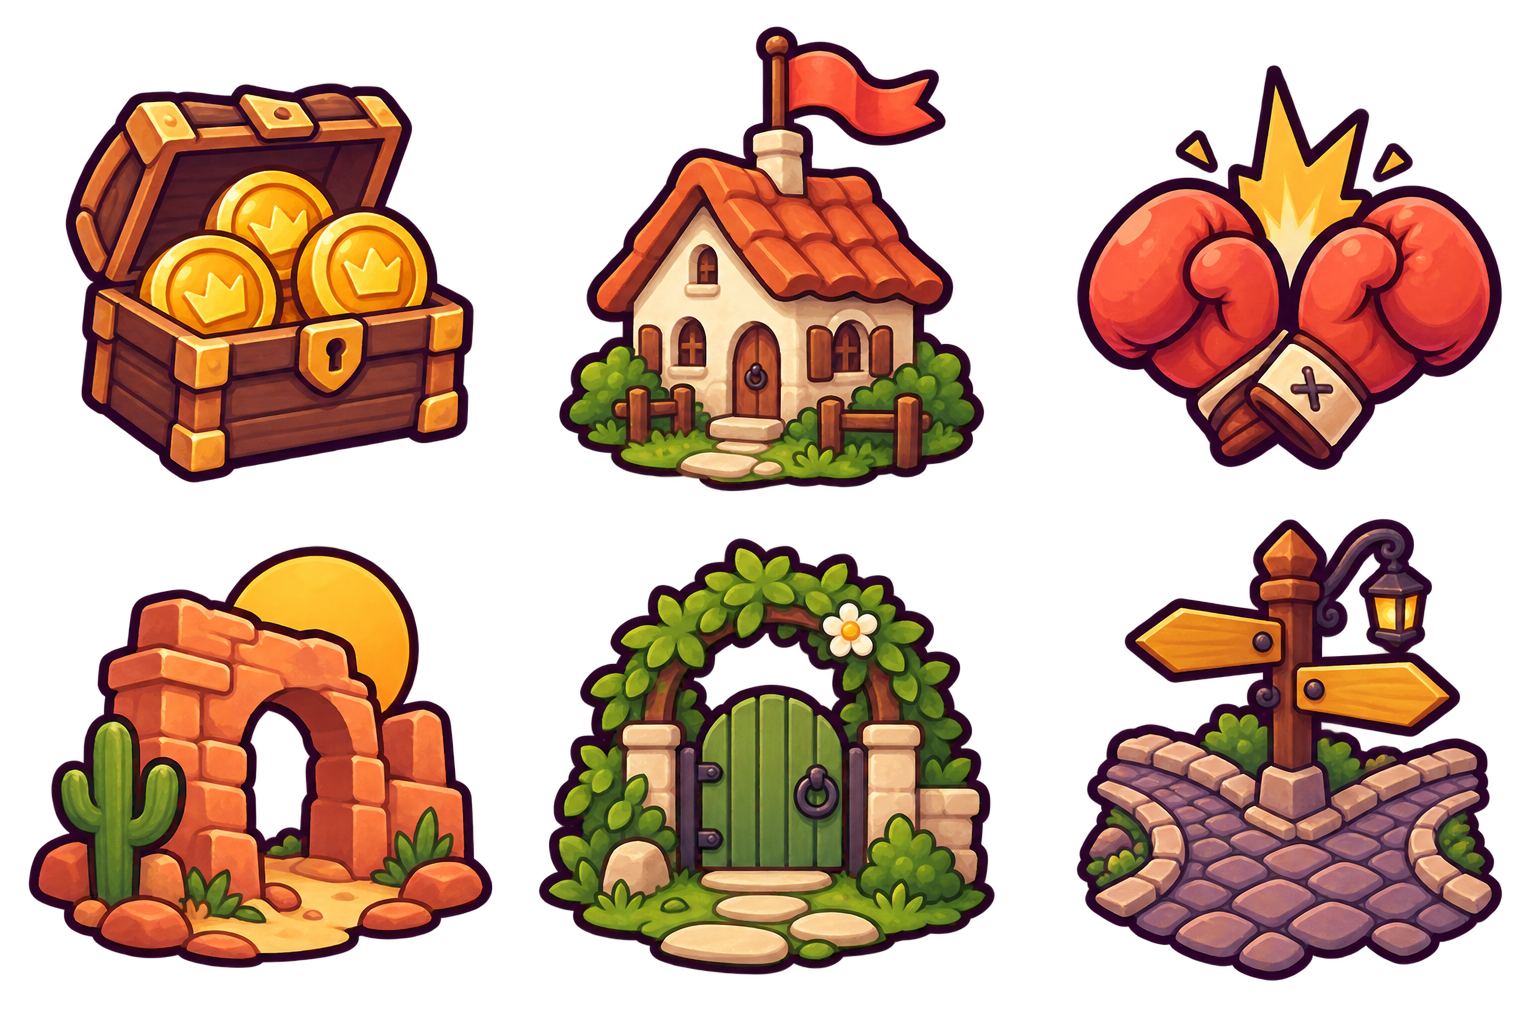
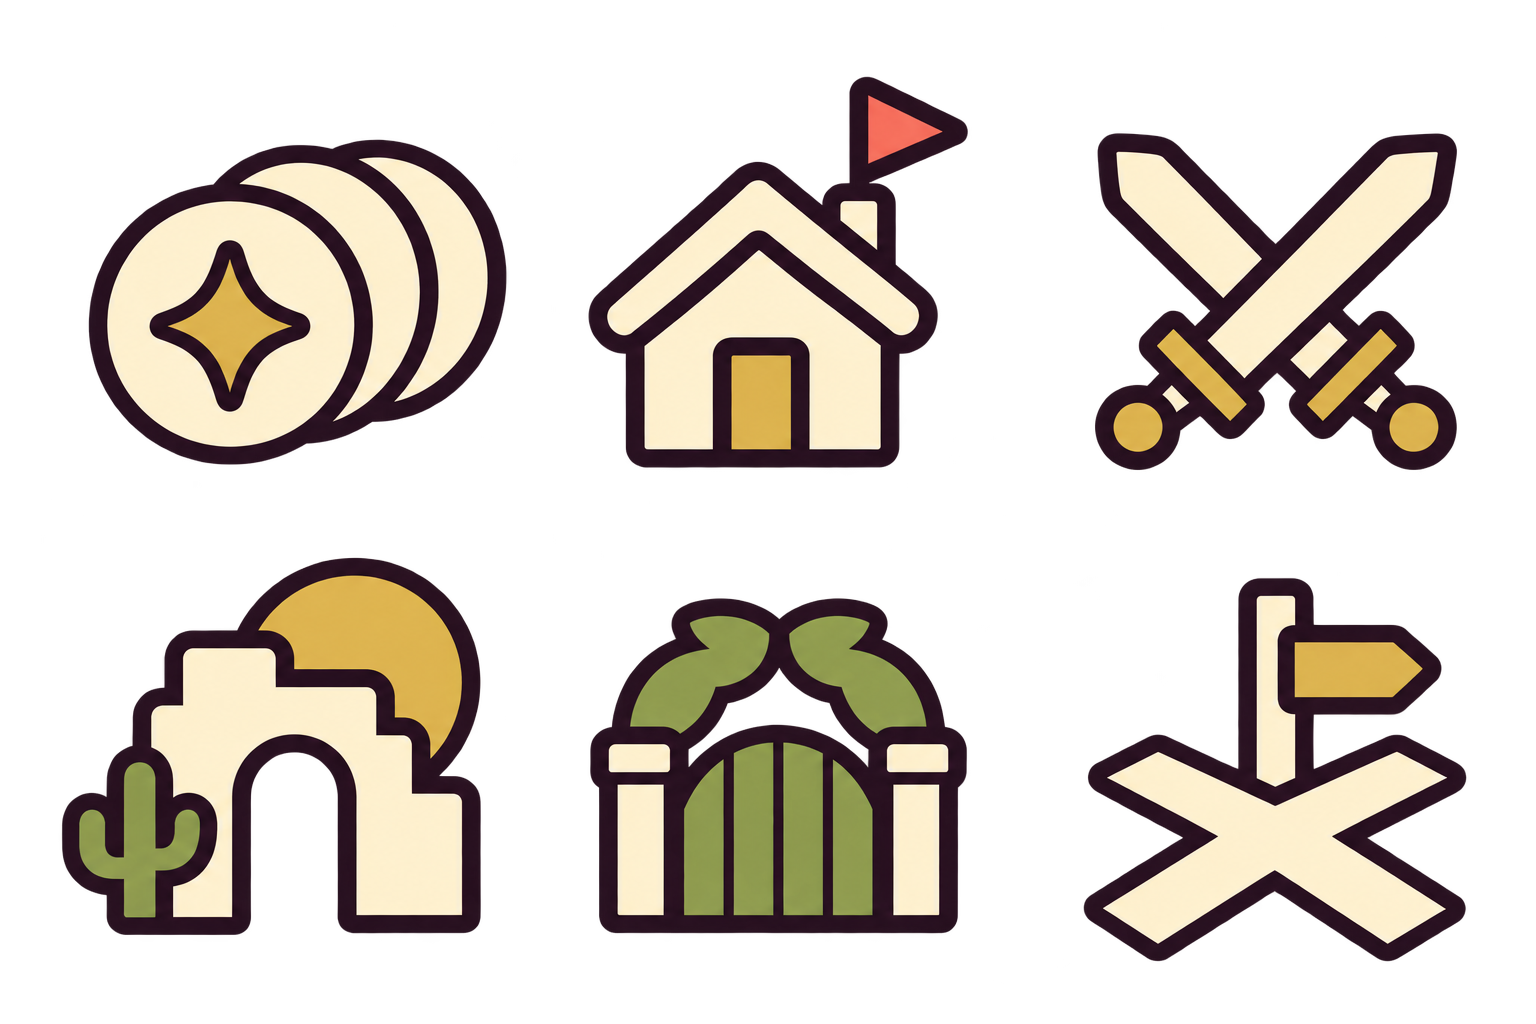
Simplify arena materials and menu illustrations

diff --git a/js/mapArt.js b/js/mapArt.js
@@ -34,16 +34,33 @@ class MapArt {
     const canvas = document.createElement('canvas'); canvas.width = map.width; canvas.height = map.height;
     const ctx = canvas.getContext('2d');
     ctx.fillStyle = theme.ground; ctx.fillRect(0, 0, map.width, map.height);
-    ctx.globalAlpha = map.id === 'courtyard' ? 0.48 : map.id === 'crossroads' ? 0.40 : 0.62;
-    ctx.fillStyle = ctx.createPattern(this.tile(theme.tile, 0, map.id === 'crossroads' ? 190 : 270), 'repeat'); ctx.fillRect(0, 0, map.width, map.height);
+    // Flat floor with sparse schematic marks; no repeated image edges or grain.
+    ctx.globalAlpha = 0.12; ctx.strokeStyle = theme.edge; ctx.lineWidth = 3;
+    if (map.id === 'crossroads') {
+      for (let y = 0, row = 0; y < map.height; y += 120, row++) {
+        ctx.beginPath(); ctx.moveTo(0, y); ctx.lineTo(map.width, y); ctx.stroke();
+        for (let x = row % 2 ? 120 : 0; x < map.width; x += 240) {
+          ctx.beginPath(); ctx.moveTo(x, y); ctx.lineTo(x, y + 120); ctx.stroke();
+        }
+      }
+    } else {
+      for (let y = 90, row = 0; y < map.height; y += 180, row++) {
+        for (let x = 80 + (row % 2) * 100; x < map.width; x += 220) {
+          ctx.beginPath();
+          if (map.id === 'courtyard') {
+            ctx.moveTo(x - 7, y - 8); ctx.lineTo(x, y); ctx.lineTo(x + 7, y - 8);
+          } else {
+            ctx.moveTo(x, y); ctx.lineTo(x + 8, y - 4);
+            ctx.moveTo(x + 9, y + 5); ctx.lineTo(x + 17, y + 1);
+          }
+          ctx.stroke();
+        }
+      }
+    }
     ctx.globalAlpha = map.id === 'crossroads' ? 0.35 : 0.24;
     ctx.strokeStyle = theme.path; ctx.lineWidth = map.id === 'courtyard' ? 110 : 145; ctx.lineCap = 'round'; ctx.lineJoin = 'round';
     for (const road of map.roads || []) {
       ctx.beginPath(); road.forEach((point, index) => index ? ctx.lineTo(point.x, point.y) : ctx.moveTo(point.x, point.y)); ctx.stroke();
-    }
-    if (map.id === 'courtyard') {
-      ctx.globalAlpha = 0.19; ctx.strokeStyle = '#f8e4bc'; ctx.lineWidth = 2;
-      for (let x = 35; x < map.width; x += 66) ctx.strokeRect(x, map.height / 2 - 17, 40, 34);
     }
     ctx.globalAlpha = 0.28; ctx.strokeStyle = theme.edge; ctx.lineWidth = 7;
     ctx.strokeRect(3.5, 3.5, map.width - 7, map.height - 7);
@@ -55,14 +72,11 @@ class MapArt {
     if (this.wood) return this.wood;
     const canvas = document.createElement('canvas'); canvas.width = 128; canvas.height = 96;
     const pen = canvas.getContext('2d'); pen.fillStyle = '#bc8750'; pen.fillRect(0, 0, 128, 96);
-    pen.strokeStyle = '#65452f'; pen.lineWidth = 3;
-    for (let y = 0; y < 96; y += 24) {
-      pen.fillStyle = y % 48 ? '#b57c48' : '#c49157'; pen.fillRect(0, y, 128, 23);
-      pen.beginPath(); pen.moveTo(0, y + 23); pen.lineTo(128, y + 23); pen.stroke();
-      pen.strokeStyle = '#e2b67c'; pen.lineWidth = 1;
-      pen.beginPath(); pen.moveTo(5, y + 4); pen.bezierCurveTo(35, y + 1, 80, y + 8, 120, y + 4); pen.stroke();
-      pen.strokeStyle = '#65452f'; pen.lineWidth = 2;
-      for (const x of [7, 119]) { pen.fillStyle = '#513b31'; pen.beginPath(); pen.arc(x, y + 12, 2, 0, Math.PI * 2); pen.fill(); }
+    // Three flat planks. No grain, scratches or tiny nail details.
+    for (let y = 0; y < 96; y += 32) {
+      pen.fillStyle = y === 32 ? '#c49157' : '#bc8750'; pen.fillRect(0, y, 128, 32);
+      pen.strokeStyle = '#65452f'; pen.lineWidth = 3;
+      pen.beginPath(); pen.moveTo(0, y); pen.lineTo(128, y); pen.stroke();
     }
     this.wood = ctx.createPattern(canvas, 'repeat'); return this.wood;
   }
@@ -92,9 +106,6 @@ class MapArt {
       ctx.strokeStyle = 'rgba(255,238,190,.5)'; ctx.lineWidth = 2;
       ctx.beginPath(); ctx.moveTo(wall.x + 4, wall.y + 4); ctx.lineTo(wall.x + wall.width - 4, wall.y + 4); ctx.stroke();
       if (wall.destructible) {
-        ctx.strokeStyle = '#f4d298'; ctx.lineWidth = 2;
-        const center = wall.x + wall.width / 2;
-        ctx.beginPath(); ctx.moveTo(center - 6, wall.y + 8); ctx.lineTo(center + 3, wall.y + wall.height / 2); ctx.lineTo(center - 4, wall.y + wall.height - 7); ctx.stroke();
         if (wall.health < wall.maxHealth) {
           ctx.fillStyle = '#30212e'; ctx.fillRect(wall.x, wall.y - 9, wall.width, 5);
           ctx.fillStyle = '#f8c64c'; ctx.fillRect(wall.x + 1, wall.y - 8, (wall.width - 2) * wall.health / wall.maxHealth, 3);

diff --git a/assets/ART.md b/assets/ART.md
@@ -2,18 +2,18 @@
 
 Новые иллюстрации созданы для этого проекта по стилю утверждённых игровых спрайтов. Скриншоты Brawl Stars использованы только как ориентир для композиции меню; элементы, персонажи и изображения из них не копировались.
 
-- `maps/materials.png`: оригинальный рисованный атлас 1536×1024. Три равных столбца, два равных ряда. Верхний ряд — песок, трава, брусчатка; нижний — терракота, садовый камень, сливовый кирпич. В `js/mapArt.js` материалы берутся из своих прямоугольников с небольшим отступом от края. Рисунок не содержит препятствий или игровой разметки.
-- `ui/arena-scenes.png`: три панорамные иллюстрации в равных горизонтальных полосах: двор с монетами, сад коттеджа, вечерний квартал. Используются только в карточках выбора; физическая схема арены задаётся `js/map.js`.
+- `maps/materials.png`: оригинальный схематичный атлас 1536×1024. Три равных столбца, два равных ряда. Верхний ряд — песок, трава, брусчатка; нижний — терракота, садовый камень, сливовый кирпич. В `js/mapArt.js` нижний ряд берётся из своих прямоугольников с небольшим отступом от края для крупных блоков стен. Пол рисуется Canvas: ровные заливки, редкие двойные штрихи песка, V-метки травы и крупная прямоугольная плитка. Верхний ряд оставлен как палитра материалов; пол не повторяет растровые плитки, поэтому между ними нет швов. Рисунок не содержит препятствий или игровой разметки.
+- `ui/arena-scenes.png`: три схематичные иллюстрации в равных горизонтальных полосах: монеты и две арки, дом с флагом и два куста, перекрёсток и три силуэта домов. Крупные плоские формы, толстая тёмная обводка, минимум деталей. Используются только в карточках выбора; физическая схема арены задаётся `js/map.js`.
 - `ui/lobby-pattern.svg`: небольшие собственные контурные рисунки монеты, домика, ящика и звезды для фона меню. Значки разделов — SVG в `index.html`.
-- Деревянная фактура, обводки, торцы стен и тени рисуются Canvas. Их положение соответствует существующим препятствиям; декорации не влияют на столкновения.
+- Деревянные укрытия рисуются Canvas как три плоские доски без волокон, гвоздей и постоянных трещин. Обводки, торцы стен и тени также рисуются Canvas. Их положение соответствует существующим препятствиям; декорации не влияют на столкновения.
 
 Материалы работают без внешних загрузок и CDN. Спрайты персонажей не менялись. Палитра интерфейса собрана в CSS-переменных в начале `style.css`.
 
 ## Значки и миниатюры больших карт
 
-`ui/mode-map-icons.png` — новый оригинальный атлас шести рисованных значков с прозрачностью, 1536×1024, три столбца и два ряда. Верхний ряд: сундук/донаты, дом с флагом/захват, перчатки/бой. Нижний ряд: пустынная арка/двор, садовая калитка/коттедж, указатель улиц/перекрёсток. Атлас сгенерирован для этого обновления; файлы персонажей не редактировались.
+`ui/mode-map-icons.png` — новый оригинальный атлас шести плоских схематичных значков с прозрачностью, 1536×1024, три столбца и два ряда. Верхний ряд: сундук/донаты, дом с флагом/захват, перчатки/бой. Нижний ряд: простая арка с солнцем и кактусом/двор, калитка с двумя листьями/коттедж, крест дорог с указателем/перекрёсток. Атлас сгенерирован для этого обновления; файлы персонажей не редактировались.
 
-Квадратные области атласа используются CSS-классом `.game-badge`. Миниатюры карт рисуются Canvas из текущего `createMap()`, а не из готовой картинки: при изменении геометрии миниатюра обновляется автоматически. Панорамные иллюстрации режимов сохранены.
+Квадратные области атласа используются CSS-классом `.game-badge`. Миниатюры карт рисуются Canvas из текущего `createMap()`, а не из готовой картинки: при изменении геометрии миниатюра обновляется автоматически. Иллюстрации режимов также упрощены до крупных схематичных форм.
 
 ## Плоские символы режимов
 

diff --git a/README.md b/README.md
@@ -28,9 +28,9 @@
 
 Лобби построено вокруг крупного выбранного бойца: слева разделы, сверху профиль и монеты, снизу карточка режима и кнопка «Играть». «Бойцы», выбор режима/карты и прогресс — отдельные экраны с кнопкой возврата; Esc возвращает в лобби. Разделы не запускают матч сами.
 
-Палитра: коралл, кремовый, охра, пыльная слива и шалфей. Карточки бойцов различаются цветами, роли подписаны; изображения показывают настоящие игровые кадры. Для режимов нарисованы отдельные панорамные иллюстрации.
+Палитра: коралл, кремовый, охра, пыльная слива и шалфей. Карточки бойцов различаются цветами, роли подписаны; изображения показывают настоящие игровые кадры. Для режимов нарисованы схематичные иллюстрации из крупных форм без мелких деталей. Значки карт в нижнем правом углу миниатюр используют такую же плоскую графику.
 
-У трёх карт разные материалы пола и каменных стен: песок/терракота, трава/садовый камень и брусчатка/сливовый кирпич. Деревянные укрытия отличаются от каменных. Декоративные дорожки, фактура и тени не меняют хитбоксы. Фон карты кешируется, а стены рисуются заново, поэтому разрушения видны сразу. При отсутствии текстур включается простая отрисовка. Источники и раскладка — [assets/ART.md](assets/ART.md).
+У трёх карт простой ровный пол с редкими метками песка, травы или крупной плиткой. Каменные стены используют крупную кладку: терракоту, садовый камень и сливовый кирпич. Деревянные укрытия состоят из плоских досок без волокон, гвоздей и декоративных трещин. Дорожки и тени не меняют хитбоксы. Фон карты кешируется, а стены рисуются заново, поэтому разрушения видны сразу. При отсутствии текстур включается простая отрисовка. Источники и раскладка — [assets/ART.md](assets/ART.md).
 
 ## Персонажи
 

diff --git a/VALIDATION.md b/VALIDATION.md
@@ -1,3 +1,15 @@
+# Проверка упрощённого оформления — 14 октября 2026
+
+После обновления графики повторно выполнен `node --test`: **163 теста прошли, 0 ошибок, 0 пропусков**.
+
+В Chromium через локальный HTTP прошли **8 браузерных сценариев**: загрузка трёх иллюстраций и трёх значков карт; выбор карты/режима кнопками; отрисовка каждой из трёх арен; движение WASD и остановка после отпускания; меню на 390×844 без горизонтального переполнения; отсутствие исключений JavaScript и ошибок HTTP. Просмотрены снимки меню на широком и узком экранах, а также всех трёх арен. После обнаружения швов растровый пол заменён ровными заливками и простыми метками Canvas, затем проверки повторены.
+
+Изменены только оформление и документация. Нижний ряд атласа материалов используется для крупных блоков стен. Пол, дерево и схемы режимов упрощены; геометрия карт, столкновения, камера и боевая логика не менялись. Firefox и Safari для этого обновления не запускались.
+
+Ниже сохранён отчёт предыдущего обновления боя. Его 19 браузерных сценариев и девять полных матчей заново для косметических изменений не запускались.
+
+---
+
 # Проверка индивидуального боя — 14 октября 2026
 
 ## Автоматические проверки
